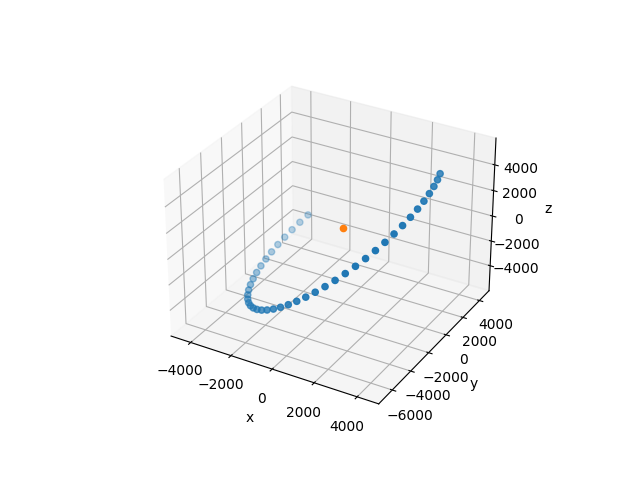
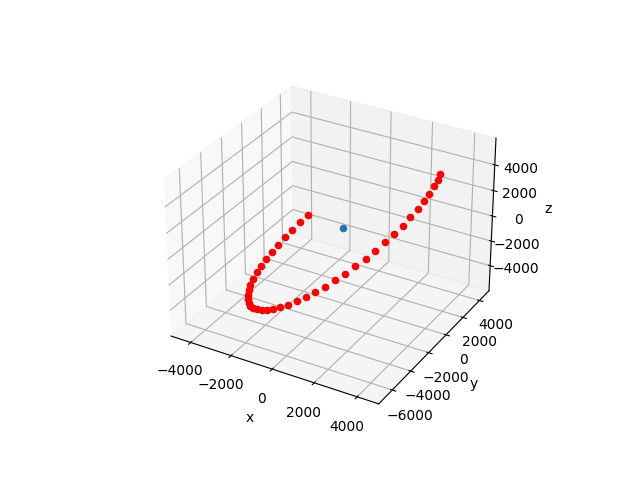
Removed some repetition

diff --git a/model.py b/model.py
@@ -112,21 +112,16 @@ if __name__ == "__main__":
         1,
     )
 
-    positions_x = [
-        model.new_position(t + 17352.664, satellite)[0] / 1000
+    positions = [
+        model.new_position(t + 17352.664, satellite) / 1000
         for t in np.arange(0, 1 / 24, 0.001)
     ]
-    positions_y = [
-        model.new_position(t + 17352.664, satellite)[1] / 1000
-        for t in np.arange(0, 1 / 24, 0.001)
-    ]
-    positions_z = [
-        model.new_position(t + 17352.664, satellite)[2] / 1000
-        for t in np.arange(0, 1 / 24, 0.001)
-    ]
+
     fig = plt.figure()
     ax = plt.axes(projection="3d")
-    ax.scatter3D(positions_x, positions_y, positions_z)
+    for position in positions:
+        ax.scatter3D(position[0], position[1], position[2], c="red")
+
     ax.scatter3D(0, 0, 0)
     ax.set_xlabel("x")
     ax.set_ylabel("y")
